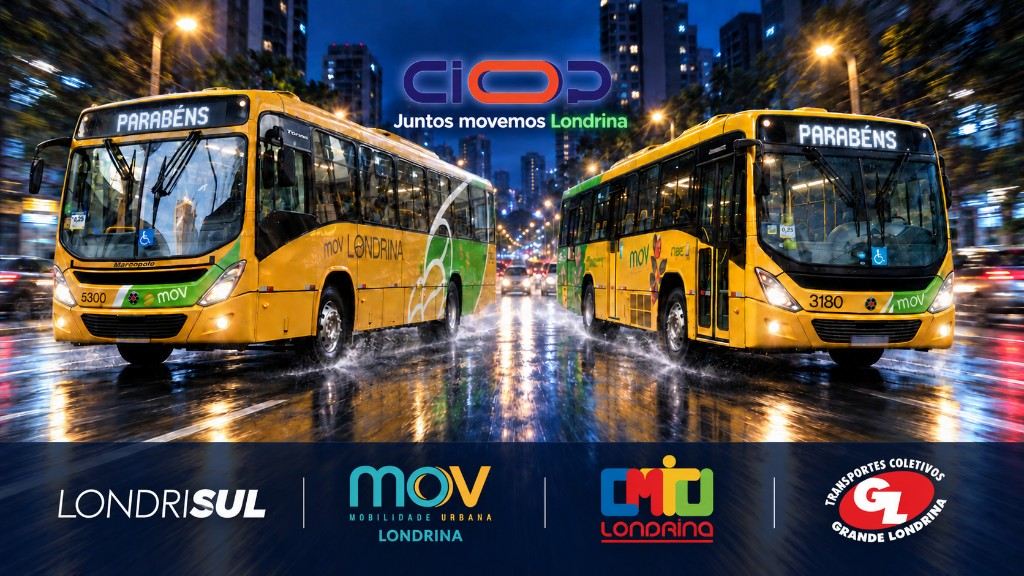
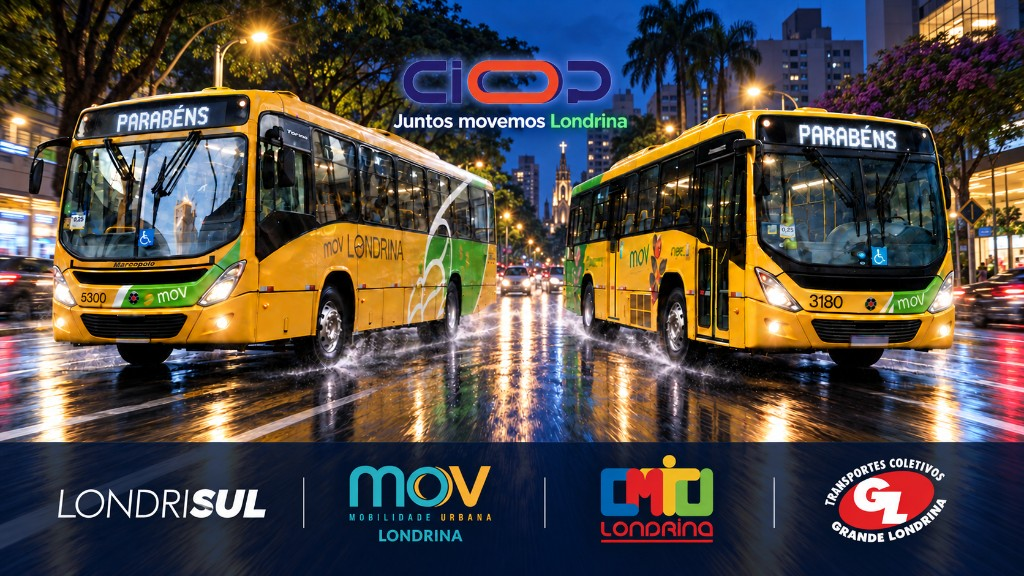
Atualiza a arte de transição e simplifica o selo de variação.
Troca o cartaz dos ônibus e deixa só a seta com os pontos percentuais.

diff --git a/pages/painel-ciop.html b/pages/painel-ciop.html
@@ -200,9 +200,6 @@
     white-space:nowrap;
   }
   .firm-delta b{ font-size:1.05em; }
-  .firm-delta small{
-    font-size:.62em; font-weight:800; letter-spacing:.08em; text-transform:uppercase; opacity:.75;
-  }
   .firm-delta.up{ color:#4ade80; background:rgba(34,197,94,.16); border-color:rgba(74,222,128,.35); }
   .firm-delta.down{ color:#fb7185; background:rgba(239,68,68,.16); border-color:rgba(251,113,133,.35); }
   .firm-delta.flat{ color:#d7e2f6; }
@@ -568,7 +565,7 @@
 
     <section class="slide slide-full" id="slide-transicao">
       <div class="scene" id="scene">
-        <img class="scene-photo" src="../assets/img/painel-ciop-transicao.jpg" alt="CIOP · Juntos movemos Londrina">
+        <img class="scene-photo" src="../assets/img/painel-ciop-transicao.jpg?v=2" alt="CIOP · Juntos movemos Londrina">
         <div class="scene-overlay"></div>
         <div class="scene-speed"></div>
         <div class="brand-hit">
@@ -705,13 +702,13 @@ function pintarDelta(id, atual, anterior) {
   const d = atual - anterior;
   if (Math.abs(d) < 0.05) {
     el.classList.add("flat");
-    el.innerHTML = `<b>▸</b> 0,0 p.p. <small>vs ant.</small>`;
+    el.innerHTML = `<b>▸</b> 0,0 p.p.`;
     return;
   }
   const up = d > 0;
   el.classList.add(up ? "up" : "down");
   const txt = Math.abs(d).toLocaleString("pt-BR", { minimumFractionDigits: 1, maximumFractionDigits: 1 });
-  el.innerHTML = `<b>${up ? "▲" : "▼"}</b> ${up ? "+" : "−"}${txt} p.p. <small>vs ant.</small>`;
+  el.innerHTML = `<b>${up ? "▲" : "▼"}</b> ${up ? "+" : "−"}${txt} p.p.`;
 }
 
 function setPct(id, v) {
